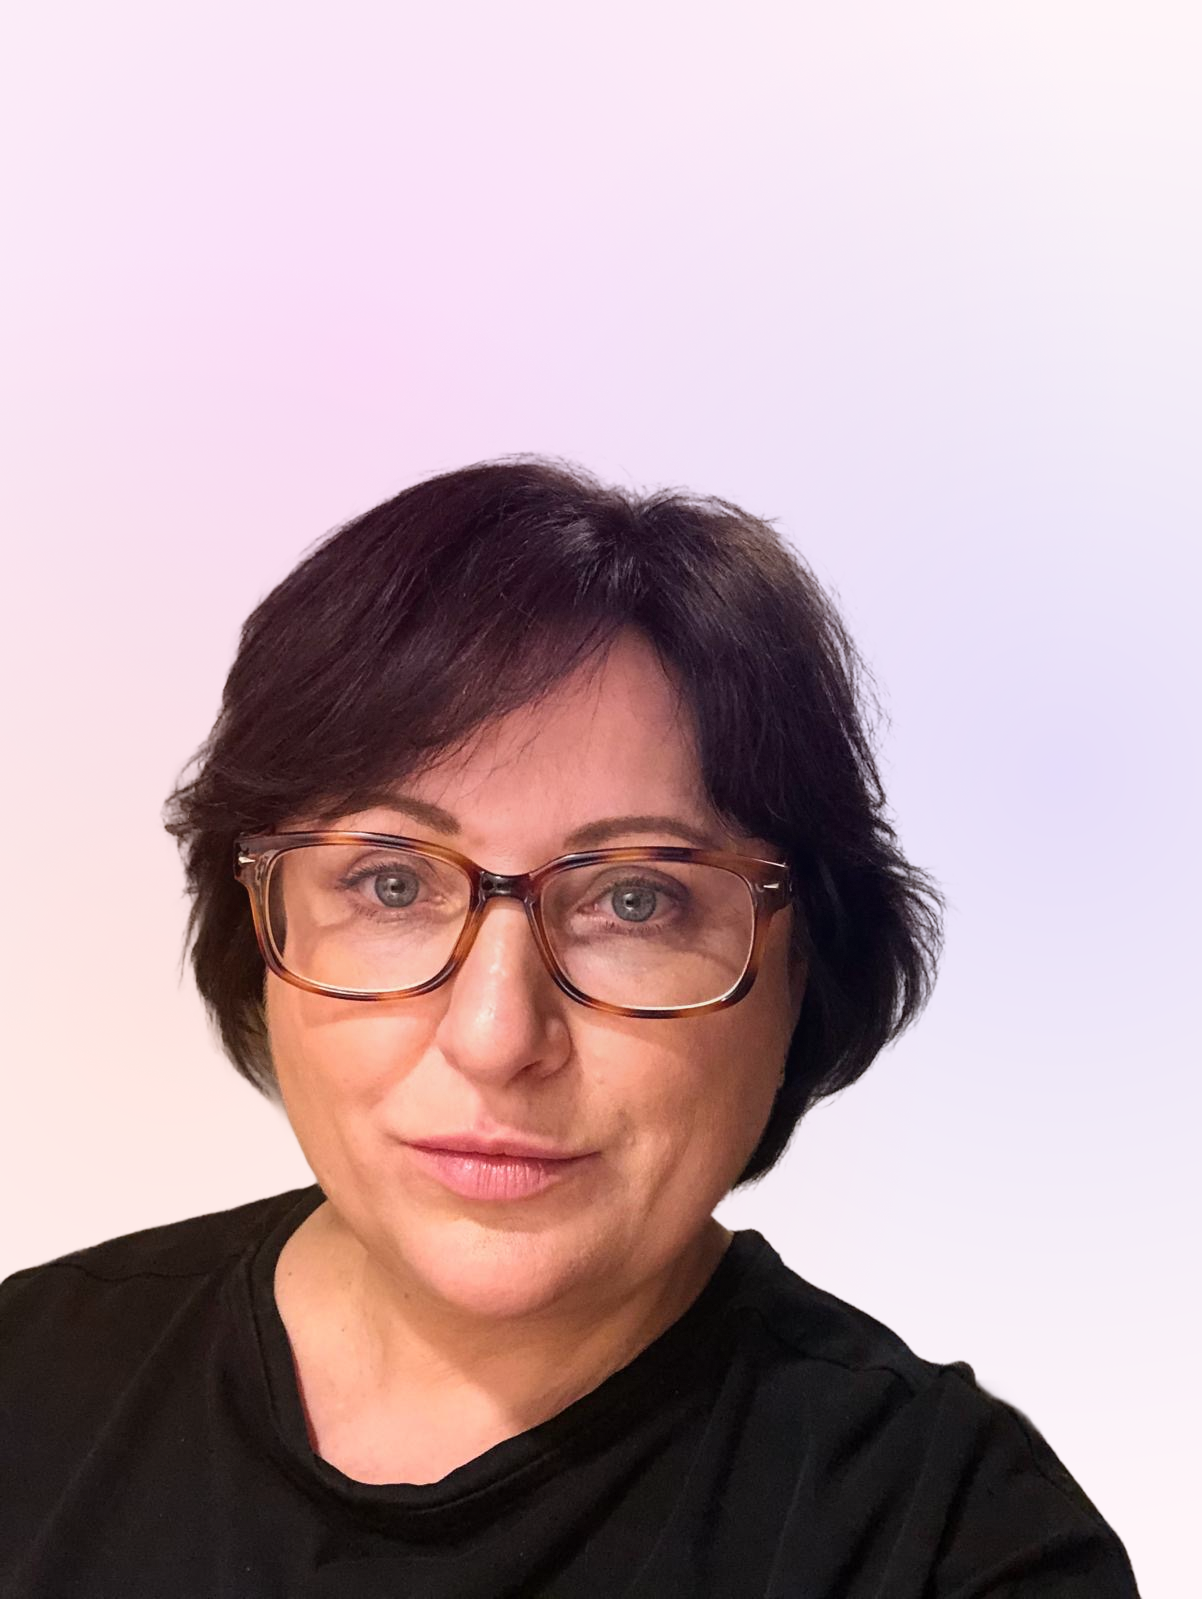
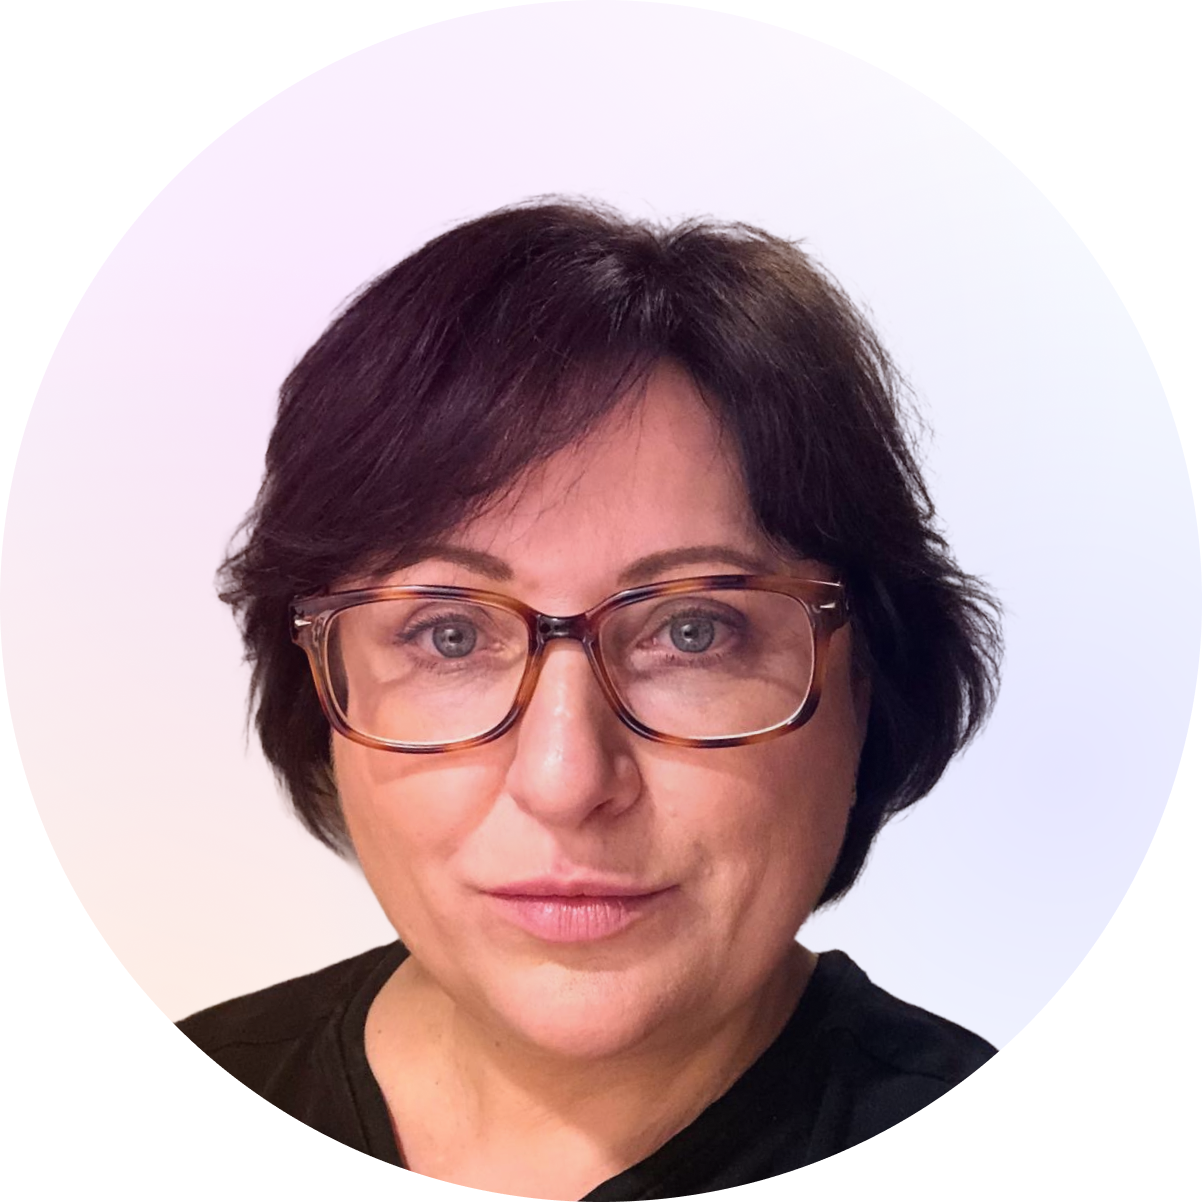
Úvodní fotka, úpravy hero a sekce O mně pro desktop.
Made-with: Cursor

diff --git a/styles.css b/styles.css
@@ -305,6 +305,12 @@ section[id] {
   align-items: center;
 }
 
+@media (max-width: 767px) {
+  .hero__photo-wrap {
+    order: -1;
+  }
+}
+
 /* Fotka v kruhu; na mobilu zarovnání vlevo */
 .hero__photo-wrap {
   border-radius: 50%;
@@ -324,7 +330,7 @@ section[id] {
   width: 100%;
   height: 100%;
   object-fit: cover;
-  object-position: center 20%;
+  object-position: center center;
   display: block;
 }
 
@@ -335,11 +341,15 @@ section[id] {
   }
 
   .hero__text {
+    grid-column: 1;
     min-width: 0;
     max-width: 32rem;
+    order: 0;
   }
 
   .hero__photo-wrap {
+    grid-column: 2;
+    order: 0;
     width: min(12.5rem, 28vw);
     justify-self: end;
     margin-inline: 0;
@@ -424,8 +434,8 @@ section[id] {
 
 @media (min-width: 768px) {
   .about__grid {
-    /* auto = šířka jen podle bublin, text začíná blíž */
-    grid-template-columns: auto 1fr;
+    /* První sloupec = šířka bublin, druhý = text (nesmí „spadnout“ vpravo) */
+    grid-template-columns: max-content 1fr;
     column-gap: clamp(0.85rem, 2.2vw, 1.5rem);
     row-gap: clamp(1.25rem, 3vw, 2rem);
     align-items: center;
@@ -433,11 +443,21 @@ section[id] {
 
   .about__grid > div:last-child {
     min-width: 0;
+    justify-self: stretch;
+    width: 100%;
   }
 }
 
+/* Na mobilu min-width: 0 kvůli horizontálnímu scrollu; na desktopu nesmí klesnout pod šířku bublin */
 .about__grid > .badges-strip {
   min-width: 0;
+}
+
+@media (min-width: 768px) {
+  .about__grid > .badges-strip {
+    min-width: max-content;
+    overflow-x: visible;
+  }
 }
 
 /* Horizontální pás bublin + carousel na úzkém viewportu */
@@ -471,7 +491,24 @@ section[id] {
   scroll-snap-align: start;
 }
 
+@media (max-width: 767px) {
+  .badges-strip {
+    padding-left: 12px;
+    padding-right: 12px;
+  }
+
+  /* Mezera mezi bublinami max. dojem úzkého řádku (≤ 20px) — více jich vydrží ve viewportu */
+  .badges {
+    gap: 12px;
+  }
+}
+
 @media (min-width: 768px) {
+  .about .badges-strip {
+    width: max-content;
+    max-width: 100%;
+  }
+
   .badges-strip {
     padding: 0 16px;
     max-width: 100%;
@@ -567,6 +604,7 @@ section[id] {
   text-transform: uppercase;
   margin: 0 0 1rem;
   opacity: 0.95;
+  text-align: left;
 }
 
 .about__headline {
@@ -574,6 +612,7 @@ section[id] {
   font-weight: 600;
   margin: 0 0 1.25rem;
   line-height: 1.35;
+  text-align: left;
 }
 
 .about__text {
@@ -582,6 +621,7 @@ section[id] {
   line-height: 1.65;
   opacity: 0.95;
   max-width: 40rem;
+  text-align: left;
 }
 
 /* ——— Témata (tagy) ——— */

diff --git a/index.html b/index.html
@@ -94,7 +94,7 @@
             src="images/veronika-kieslingova.png"
             data-i18n-alt="hero_img_alt"
             alt="Dr. Veronika Kieslingová, dětská psycholožka Praha 6"
-            width="769"
+            width="1024"
             height="1024"
             decoding="async"
             fetchpriority="high"
